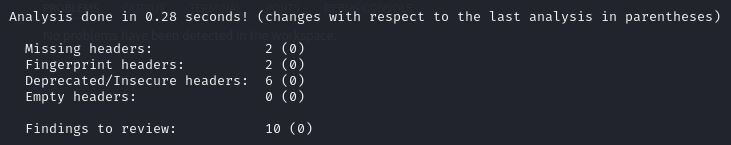
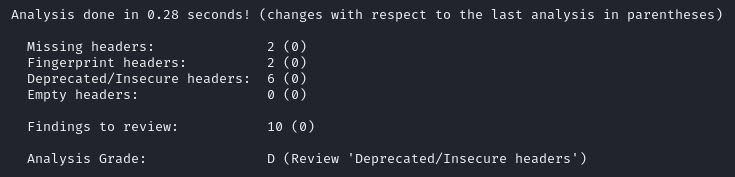
Feature: Show grade of the analysis and advices
initial version, its logic will be improved.

diff --git a/humble.py b/humble.py
@@ -108,7 +108,7 @@ tps://github.com/rfc-st/humble')
 URL_STRING = ('rfc-st', ' URL  : ', 'caniuse')
 
 current_time = datetime.now().strftime("%Y/%m/%d - %H:%M:%S")
-local_version = datetime.strptime('2024-07-20', '%Y-%m-%d').date()
+local_version = datetime.strptime('2024-07-24', '%Y-%m-%d').date()
 
 
 class SSLContextAdapter(requests.adapters.HTTPAdapter):
@@ -274,6 +274,8 @@ def get_analysis_results():
                                              e_cnt=e_cnt, t_cnt=t_cnt)
     print("")
     print_analysis_results(*analysis_diff, t_cnt=t_cnt)
+    analysis_grade = grade_analysis(m_cnt, f_cnt, i_cnt, e_cnt)
+    print(f"{get_detail(analysis_grade)}")
 
 
 def save_analysis_results(t_cnt):
@@ -312,6 +314,28 @@ def print_analysis_results(*diff, t_cnt):
     print("")
     for literal, total in zip(literals, totals):
         print(f"{(print_detail_l(literal) or '')[:-1]}{total}")
+
+
+# 'humble' tries to be *strict*: both in checking HTTP response headers and
+# their values; some of these headers may be experimental and you may not agree
+# with all the results after analysis. And that's OK! :); you should *never*
+# blindly trust the results of security tools: there should be further work to
+# decide whether the risk is non-existent, potential or real depending on the
+# analyzed URL (its exposure, environment, etc).
+#
+# I will try to improve this function over time, to tune it as much as
+# possible to the reality of certain results and headers.
+#
+# In the meantime, feel free to use '-s' parameter to skip
+# 'Deprecated/Insecure' analysis of the HTTP response headers of your choice.
+def grade_analysis(m_cnt, f_cnt, i_cnt, e_cnt):
+    if i_cnt and sum(i_cnt) > 0:
+        return '[d_grade]'
+    if m_cnt > 0:
+        return '[c_grade]'
+    if f_cnt > 0:
+        return '[b_grade]'
+    return '[a_grade]' if e_cnt > 0 else '[perfect_grade]'
 
 
 def analysis_exists(filepath):

diff --git a/README.md b/README.md
@@ -4,7 +4,7 @@
 <a target="_blank" href="https://www.python.org/downloads/" title="Minimum Python version required to run this tool"><img src="https://img.shields.io/badge/Python-%3E%3D3.9-blue?labelColor=343b41"></a>
 <a target="_blank" href="LICENSE" title="License of this tool"><img src="https://img.shields.io/badge/License-MIT-blue.svg?labelColor=343b41"></a>
 <a target="_blank" href="https://github.com/rfc-st/humble/releases" title="Latest release of this tool"><img src="https://img.shields.io/github/v/release/rfc-st/humble?display_name=release&label=Latest%20Release&labelColor=343b41"></a>
-<a target="_blank" href="https://github.com/rfc-st/humble/commits/master" title="Latest commit of this tool"><img src="https://img.shields.io/badge/Latest_Commit-2024--07--20-blue.svg?labelColor=343b41"></a>
+<a target="_blank" href="https://github.com/rfc-st/humble/commits/master" title="Latest commit of this tool"><img src="https://img.shields.io/badge/Latest_Commit-2024--07--24-blue.svg?labelColor=343b41"></a>
 <a target="_blank" href="https://github.com/rfc-st/humble/actions?query=workflow%3ACodeQL" title="Results of the last analysis of this tool with CodeQL"><img src="https://github.com/rfc-st/humble/workflows/CodeQL/badge.svg"></a>
 <a target="_blank" href="https://owasp.org/www-project-secure-headers/#div-technical" title="Official tool in OWASP Secure Headers Project"><img src="https://img.shields.io/badge/OWASP-Tool-blue?labelColor=343b41"></a>
 <a target="_blank" href="https://pkg.kali.org/pkg/humble" title="Official tool in Kali Linux"><img src="https://img.shields.io/badge/Kali%20Linux-Tool-blue?labelColor=343b41"></a>
